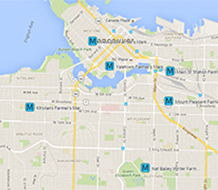
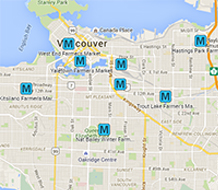
update

diff --git a/index.html b/index.html
@@ -139,11 +139,11 @@
       <div class="clear"></div><br/>        
              
 					<div class="col-xs-3">
-							<a href="https://twitter.com/BlueCometSea/" target="_blank"><img src="images/gallery/thumbs/4.jpg" class="img_left_gallery" width="218"></a>
+							<a href="https://twitter.com/BlueCometSea/" target="_blank"><img src="images/gallery/thumbs/59.jpg" class="img_left_gallery" width="218"></a>
 							<a href="https://twitter.com/BlueCometSea/" target="_blank"><h2 class="home_sub">Follow us on Twitter</h2></a>                         
                      </div>  
 					<div class="col-xs-3">
-							<a href="https://www.instagram.com/bluecometseafoods/" target="_blank"><img src="images/gallery/thumbs/2.jpg" class="img_left_gallery" width="218"></a>
+							<a href="https://www.instagram.com/bluecometseafoods/" target="_blank"><img src="images/gallery/thumbs/58.jpg" class="img_left_gallery" width="218"></a>
 							<a href="https://www.instagram.com/bluecometseafoods/" target="_blank"><h2 class="home_sub">We're on Instagram</h2></a>                         
                      </div>  
 					<div class="col-xs-3">
@@ -152,7 +152,7 @@
                      </div>  
 					<div class="col-xs-3">
 							<a href="locations.html"><img src="images/gallery/thumbs/57.jpg" class="img_left_gallery" width="218"></a>
-							<a href="locations.html"><h2 class="home_sub">Our summer locations</h2></a>                         
+							<a href="locations.html"><h2 class="home_sub">Farmer's markets map</h2></a>                         
                      </div>  
                      
         
